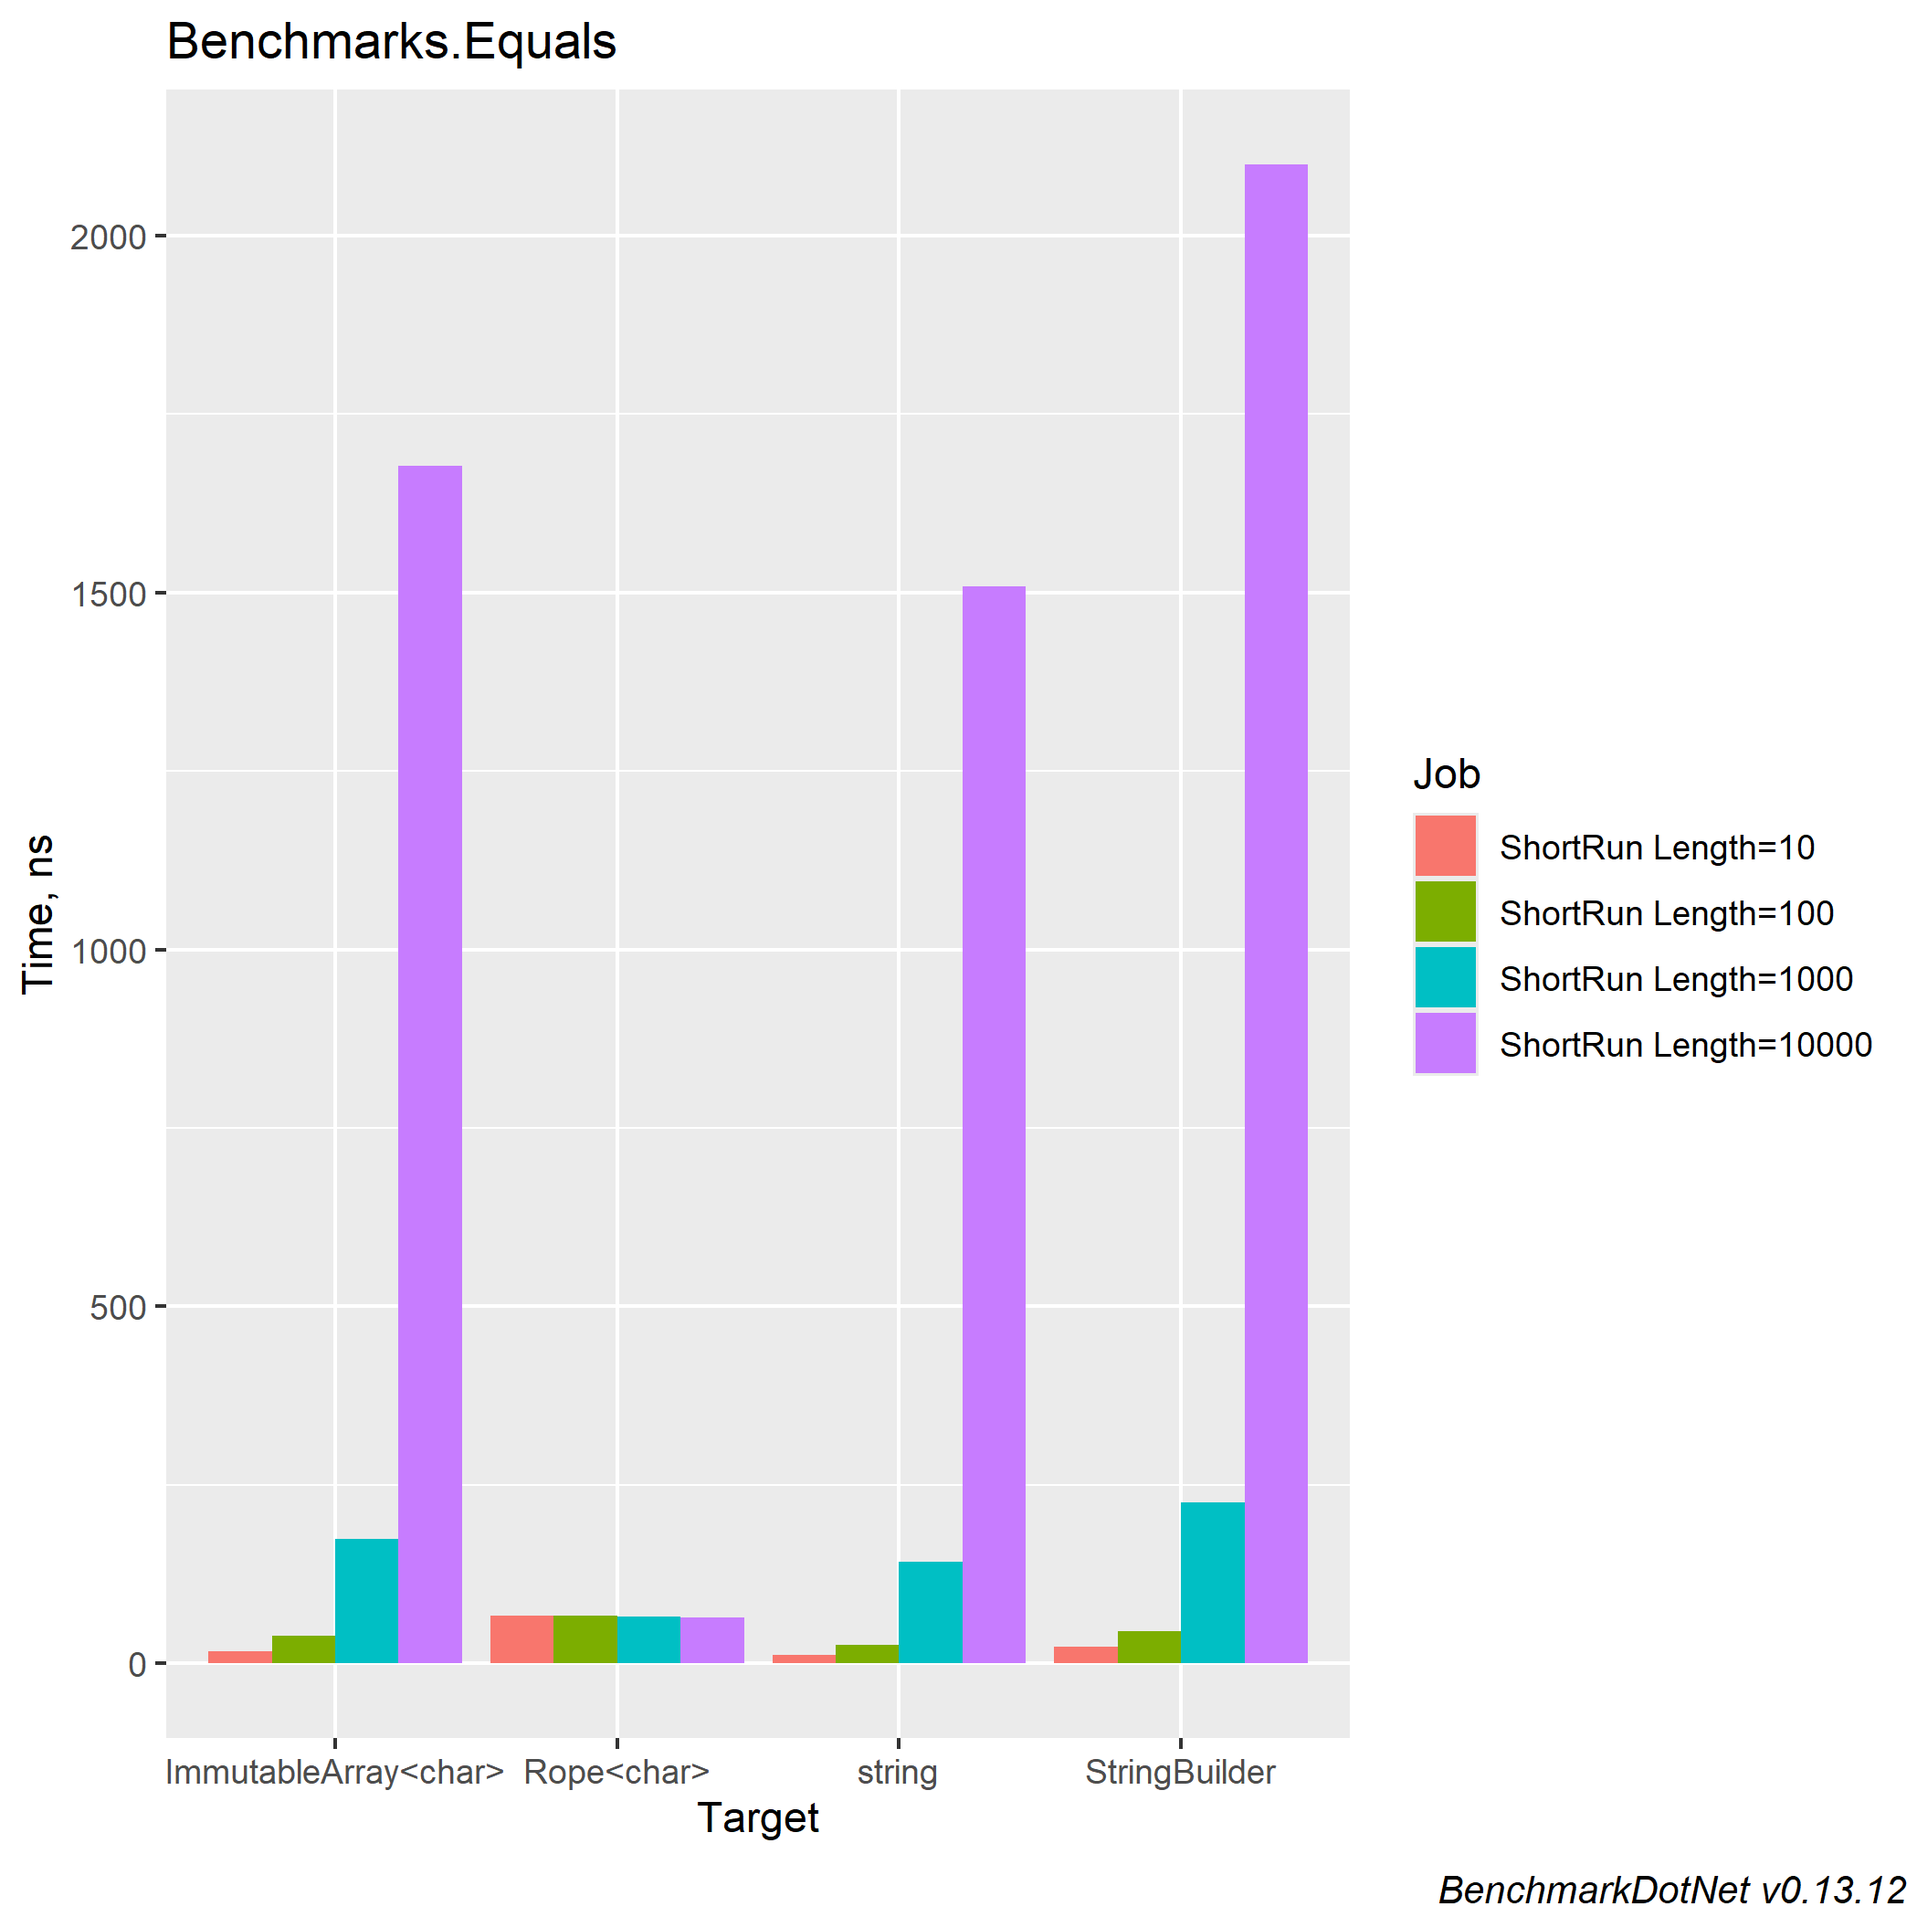
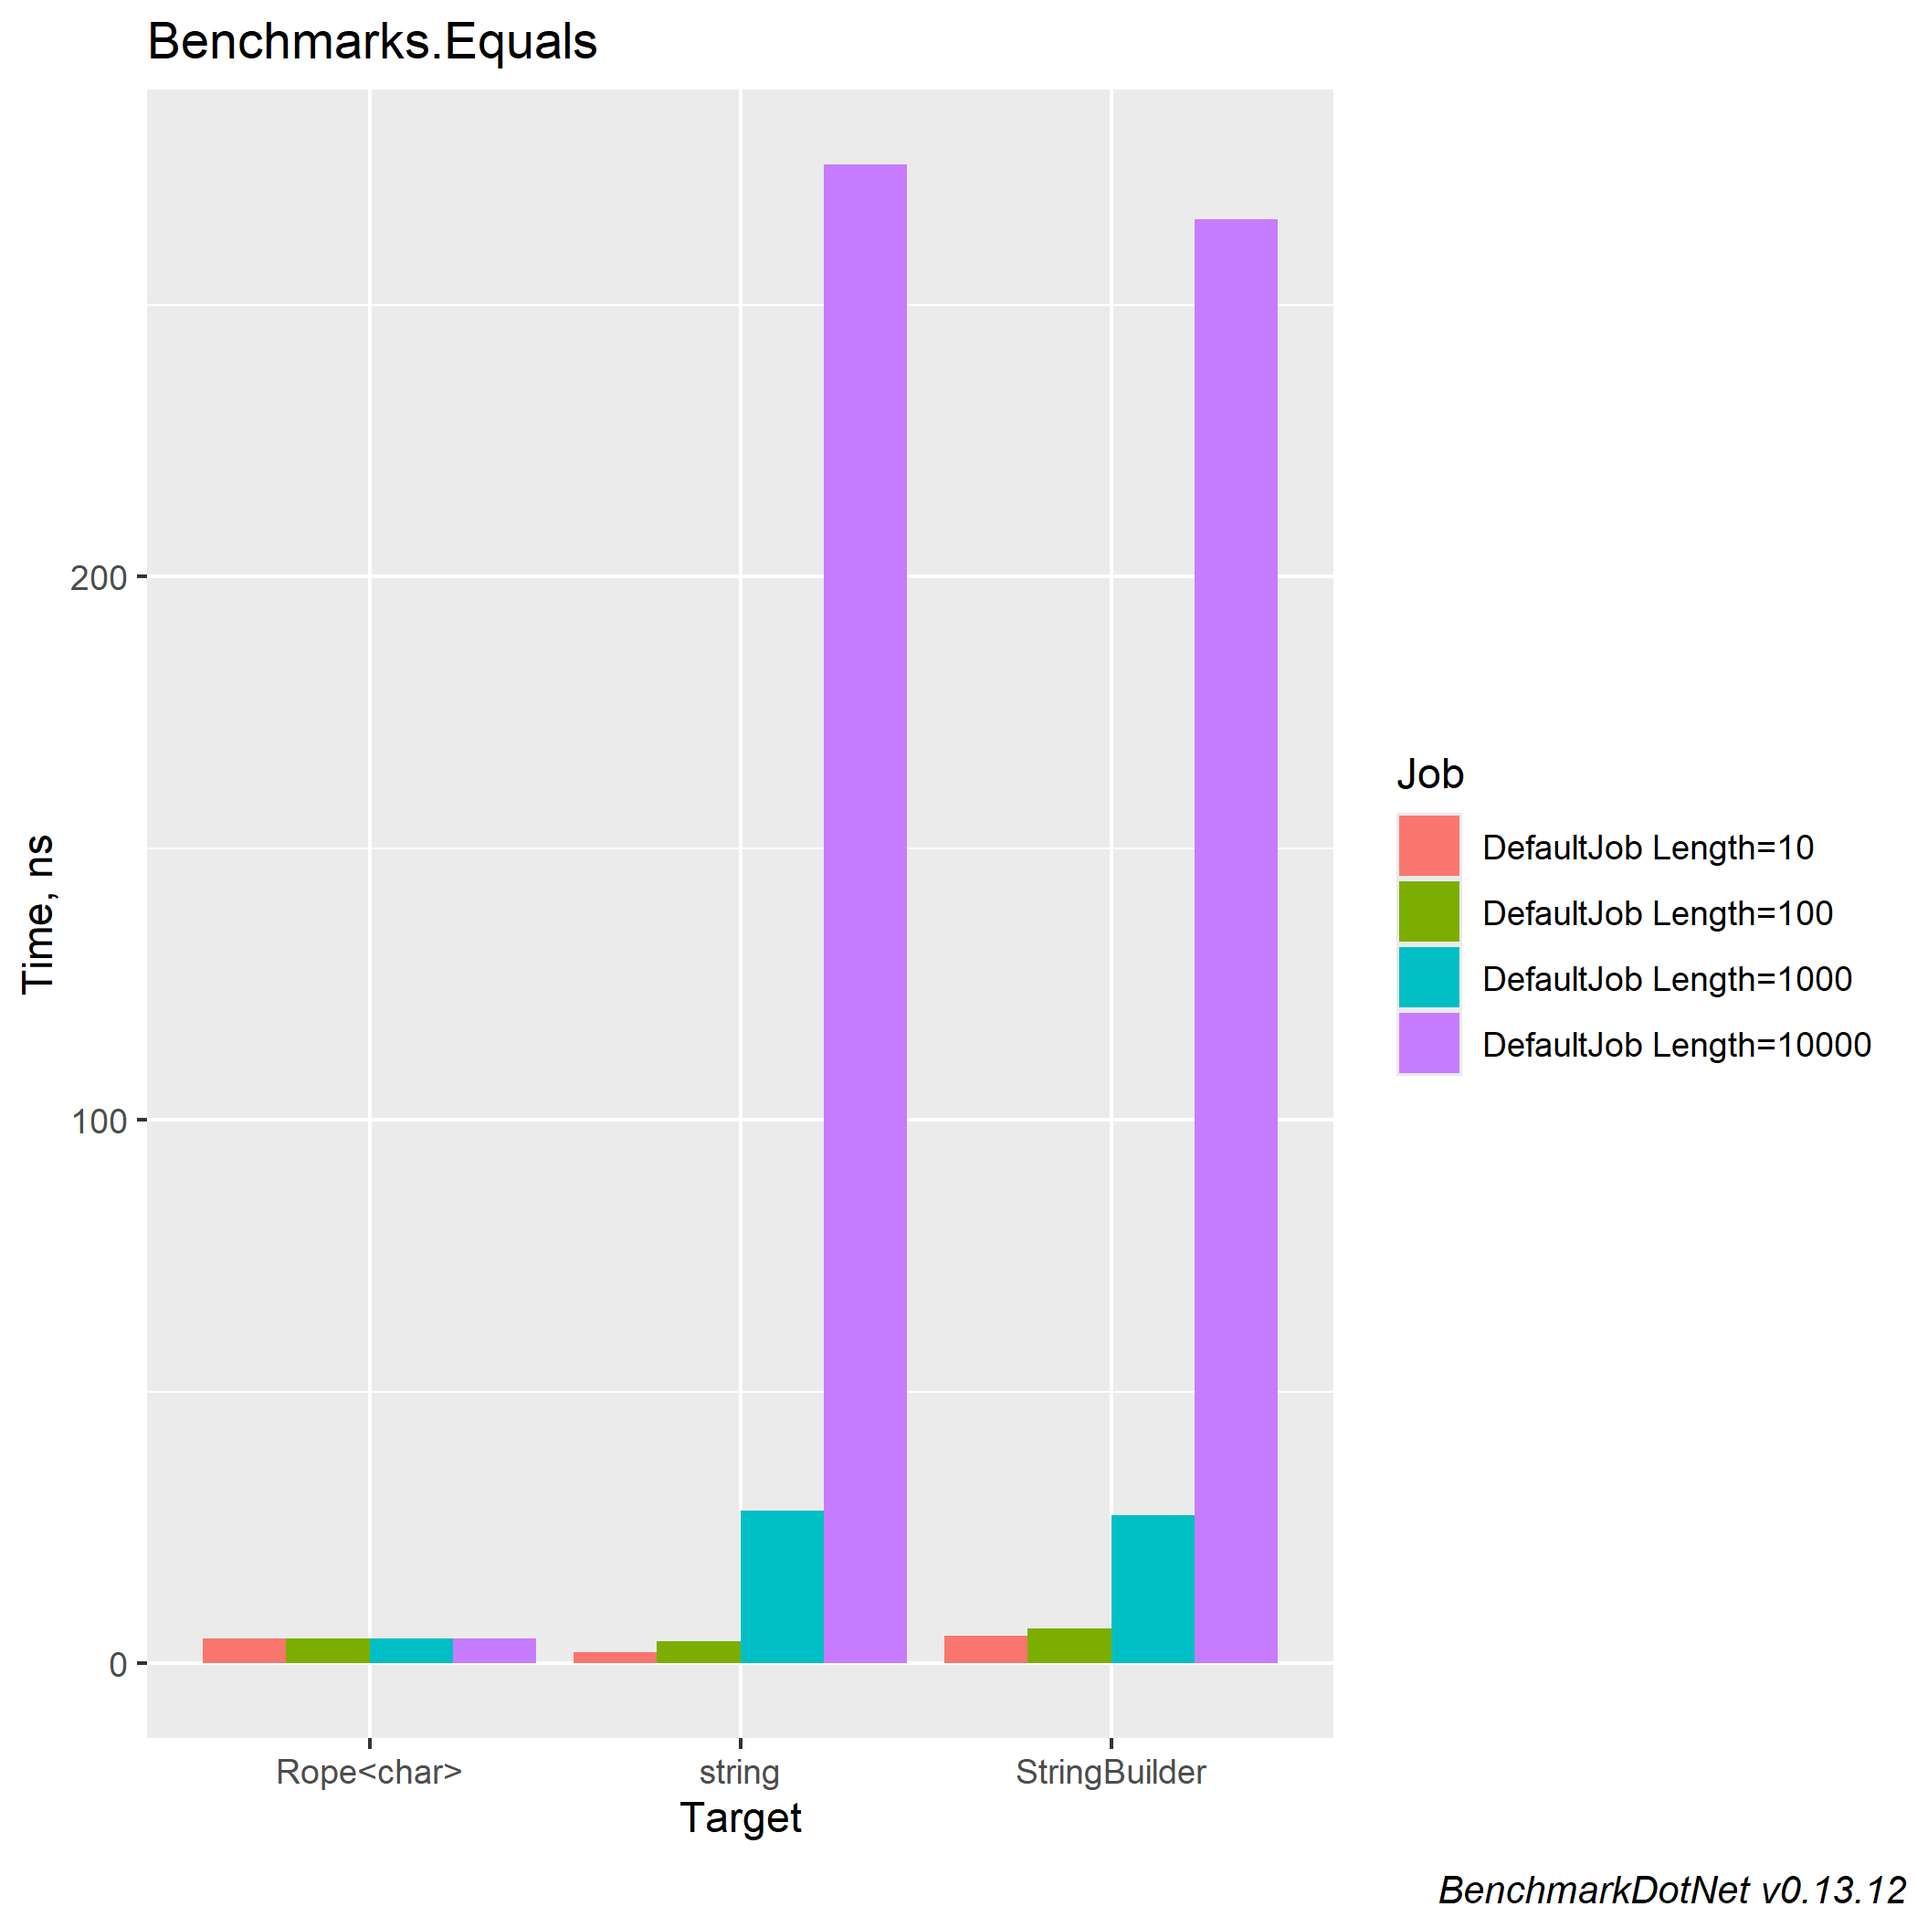
Updated benchmark chart

diff --git a/README.md b/README.md
@@ -137,24 +137,21 @@ Working with a string of length - 32644 characters. - MaxLeafLength = ~32kb, Max
 
 ![Equals](https://raw.githubusercontent.com/FlatlinerDOA/Rope/main/benchmarks/results/Benchmarks.Equals-barplot.png)
 
-| Method               | Length | Mean        | Error      | StdDev    | Gen0   | Gen1   | Allocated |
-|--------------------- |------- |------------:|-----------:|----------:|-------:|-------:|----------:|
-| **Rope&lt;char&gt;**           | **10**     |    **66.58 ns** |   **8.974 ns** |  **0.492 ns** | **0.0430** |      **-** |     **720 B** |
-| StringBuilder        | 10     |    24.05 ns |  11.899 ns |  0.652 ns | 0.0120 |      - |     200 B |
-| string               | 10     |    11.99 ns |  13.890 ns |  0.761 ns | 0.0057 |      - |      96 B |
-| ImmutableArray&lt;char&gt; | 10     |    17.72 ns |  25.409 ns |  1.393 ns | 0.0086 |      - |     144 B |
-| **Rope&lt;char&gt;**           | **100**    |    **66.47 ns** |  **56.171 ns** |  **3.079 ns** | **0.0430** |      **-** |     **720 B** |
-| StringBuilder        | 100    |    44.67 ns |  41.547 ns |  2.277 ns | 0.0430 |      - |     720 B |
-| string               | 100    |    26.00 ns |  26.173 ns |  1.435 ns | 0.0268 |      - |     448 B |
-| ImmutableArray&lt;char&gt; | 100    |    38.66 ns |  24.275 ns |  1.331 ns | 0.0401 |      - |     672 B |
-| **Rope&lt;char&gt;**           | **1000**   |    **65.25 ns** |  **17.280 ns** |  **0.947 ns** | **0.0430** |      **-** |     **720 B** |
-| StringBuilder        | 1000   |   226.24 ns | 287.821 ns | 15.776 ns | 0.3657 | 0.0017 |    6120 B |
-| string               | 1000   |   142.99 ns |  40.730 ns |  2.233 ns | 0.2418 | 0.0007 |    4048 B |
-| ImmutableArray&lt;char&gt; | 1000   |   174.36 ns | 113.869 ns |  6.242 ns | 0.3629 | 0.0026 |    6072 B |
-| **Rope&lt;char&gt;**           | **10000**  |    **64.06 ns** |   **9.360 ns** |  **0.513 ns** | **0.0430** |      **-** |     **720 B** |
-| StringBuilder        | 10000  | 2,099.27 ns | 512.631 ns | 28.099 ns | 3.5858 | 0.1678 |   60120 B |
-| string               | 10000  | 1,508.18 ns | 232.180 ns | 12.727 ns | 2.3880 | 0.0839 |   40048 B |
-| ImmutableArray&lt;char&gt; | 10000  | 1,677.52 ns | 471.568 ns | 25.848 ns | 3.5839 |      - |   60072 B |
+| Method        | Length | Mean       | Error     | StdDev    | Allocated |
+|-------------- |------- |-----------:|----------:|----------:|----------:|
+| **Rope&lt;char&gt;**    | **10**     |   **4.683 ns** | **0.0831 ns** | **0.0694 ns** |         **-** |
+| StringBuilder | 10     |   5.094 ns | 0.0441 ns | 0.0391 ns |         - |
+| string        | 10     |   2.155 ns | 0.0129 ns | 0.0107 ns |         - |
+| **Rope&lt;char&gt;**    | **100**    |   **4.659 ns** | **0.0323 ns** | **0.0270 ns** |         **-** |
+| StringBuilder | 100    |   6.402 ns | 0.0521 ns | 0.0487 ns |         - |
+| string        | 100    |   4.050 ns | 0.0206 ns | 0.0193 ns |         - |
+| **Rope&lt;char&gt;**    | **1000**   |   **4.653 ns** | **0.0364 ns** | **0.0323 ns** |         **-** |
+| StringBuilder | 1000   |  27.302 ns | 0.0866 ns | 0.0810 ns |         - |
+| string        | 1000   |  28.123 ns | 0.0802 ns | 0.0750 ns |         - |
+| **Rope&lt;char&gt;**    | **10000**  |   **4.600 ns** | **0.0124 ns** | **0.0116 ns** |         **-** |
+| StringBuilder | 10000  | 265.757 ns | 0.5245 ns | 0.4907 ns |         - |
+| string        | 10000  | 275.796 ns | 0.4692 ns | 0.4160 ns |         - |
+
 
 ## Performance - IndexOf
 
